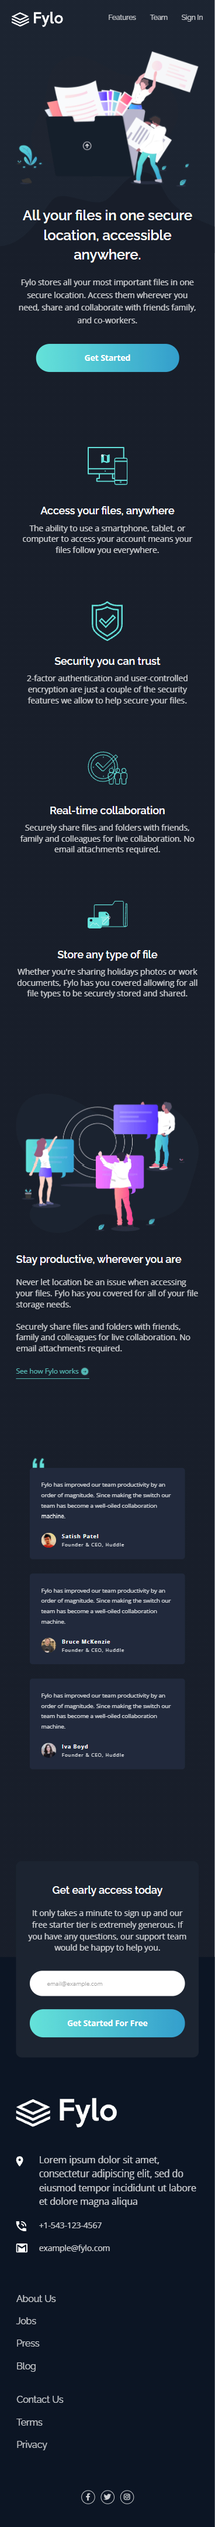
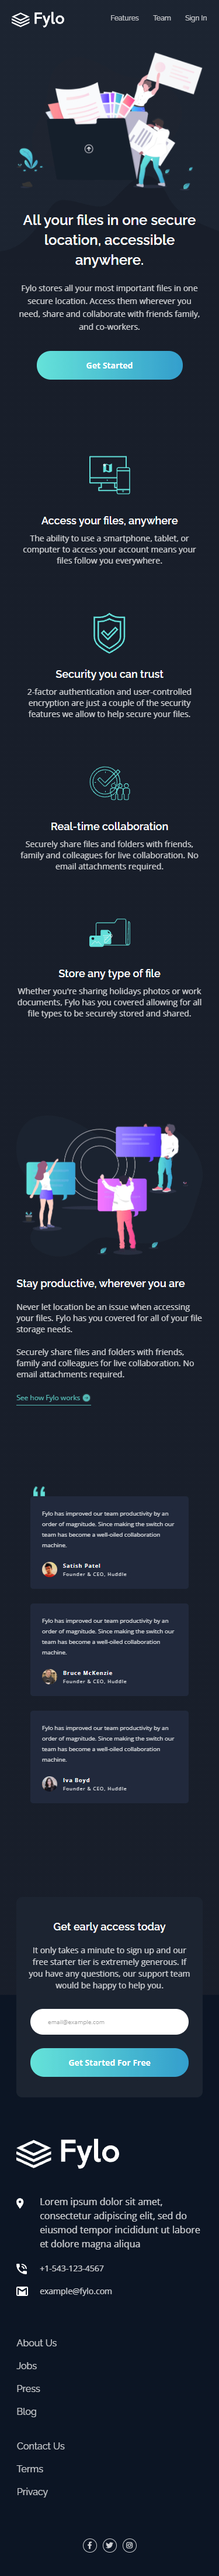
update - screenshot and button hover

diff --git a/css/style.css b/css/style.css
@@ -162,12 +162,26 @@ header button {
   background: linear-gradient(90deg, #65e2d9, #339ecc);
   cursor: pointer;
   font-weight: 700;
+  position: relative;
+  overflow: hidden;
   width: 250px;
 }
 
-header button:hover {
-  background: -webkit-gradient(linear, left top, right top, from(#90eae4), to(#5cb1d6));
-  background: linear-gradient(90deg, #90eae4, #5cb1d6);
+header button::before {
+  content: "";
+  position: absolute;
+  top: 0;
+  right: 0;
+  bottom: 0;
+  left: 0;
+  background-color: white;
+  opacity: 0;
+  -webkit-transition: .3s;
+  transition: .3s;
+}
+
+header button:hover::before {
+  opacity: 30%;
 }
 
 @media only screen and (min-width: 1440px) {
@@ -435,11 +449,25 @@ main section.earlyAccess div.wrapper2 button {
   background: linear-gradient(90deg, #65e2d9, #339ecc);
   cursor: pointer;
   font-weight: 700;
+  position: relative;
+  overflow: hidden;
 }
 
-main section.earlyAccess div.wrapper2 button:hover {
-  background: -webkit-gradient(linear, left top, right top, from(#90eae4), to(#5cb1d6));
-  background: linear-gradient(90deg, #90eae4, #5cb1d6);
+main section.earlyAccess div.wrapper2 button::before {
+  content: "";
+  position: absolute;
+  top: 0;
+  right: 0;
+  bottom: 0;
+  left: 0;
+  background-color: white;
+  opacity: 0;
+  -webkit-transition: .3s;
+  transition: .3s;
+}
+
+main section.earlyAccess div.wrapper2 button:hover::before {
+  opacity: 30%;
 }
 
 main section.earlyAccess div.wrapper2 p.alert {

diff --git a/sass/_mixins.sass b/sass/_mixins.sass
@@ -11,8 +11,21 @@
     background: linear-gradient(90deg,$colorCyan, $colorBlue)
     cursor: pointer
     font-weight: 700
-    &:hover
-        background: linear-gradient(90deg, hsl(176, 68%, 74%), hsl(198, 60%, 60%))
+    position: relative
+    overflow: hidden
+    &::before
+        content: ""
+        position: absolute
+        top: 0
+        right: 0
+        bottom: 0
+        left: 0
+        background-color: white
+        opacity: 0
+        transition: .3s
+    &:hover::before
+        opacity: 30%
+
 @mixin aHover
     ul
         list-style: none

diff --git a/README.md b/README.md
@@ -34,6 +34,7 @@ Users should be able to:
 - Solution URL: [Email validation](https://www.w3resource.com/javascript/form/email-validation.php)
 - Solution URL: [Background resizing](https://www.tutorialrepublic.com/faq/how-to-get-current-image-size-in-javascript.php)
 - Solution URL: [Background resizing](https://plainjs.com/javascript/styles/get-the-position-of-an-element-relative-to-the-document-24/)
+- Solution URL: [Button hover](https://github.com/Tiago138/fylo-dark-theme-landing-page/blob/main/scss/_globals.scss)
 
 ## My process
 
